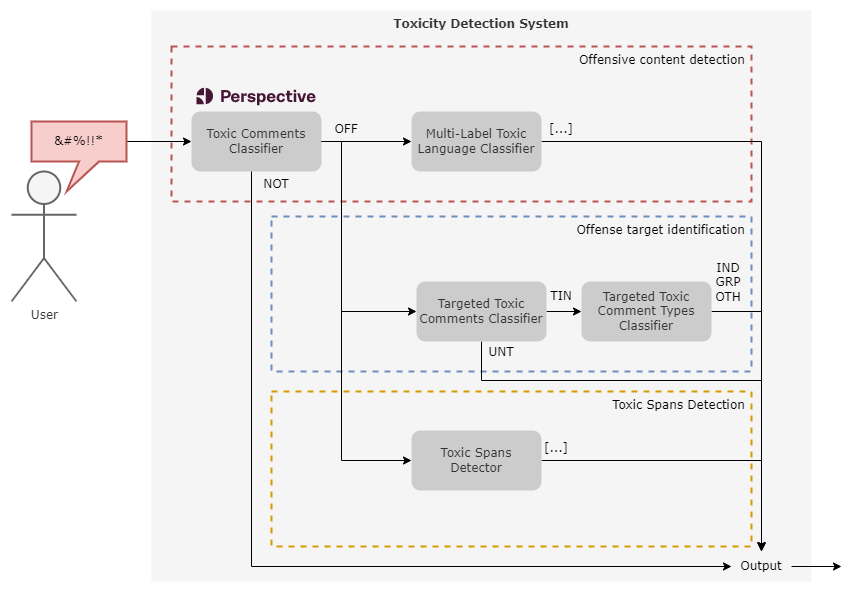
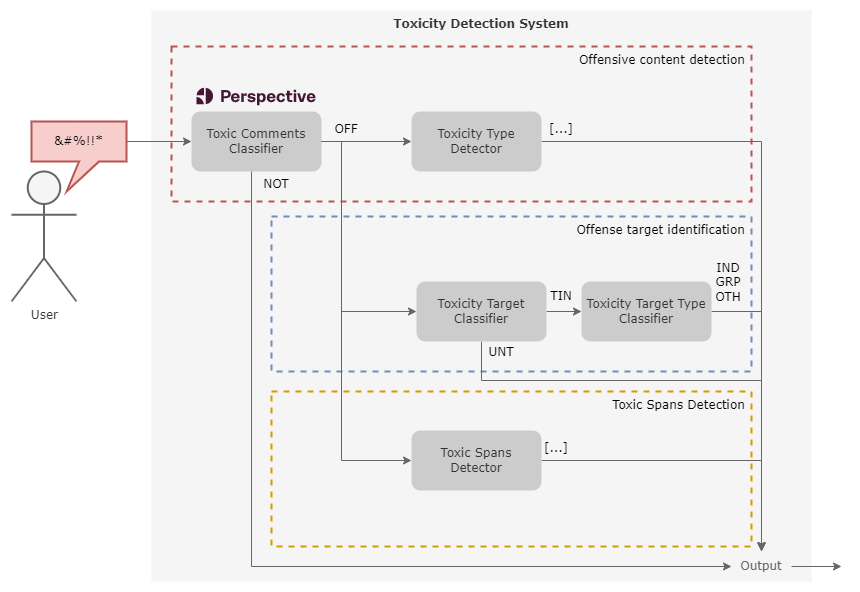
Update toxicity types

diff --git a/docs/dataset/data-sample.pt.md b/docs/dataset/data-sample.pt.md
@@ -2,7 +2,7 @@
 
 A tabela abaixo mostra um exemplo dos dados fornecidos pelo dataset.
 
-| id                               | text                                              | is\_offensive | is\_targeted | targeted\_type | toxic\_spans                                       | health | gender\_attack | ideology | insult | other\_lifestyle | physical\_aspects | profanity\_obscene | racism | religious\_intolerance | sexism | xenophobia |
+| id                               | text                                              | is\_offensive | is\_targeted | targeted\_type | toxic\_spans                                       | health | lgbtqphobia | ideology | insult | other\_lifestyle | physical\_aspects | profanity\_obscene | racism | religious\_intolerance | sexism | xenophobia |
 | -------------------------------- | ------------------------------------------------- | ------------- | ------------ | -------------- | -------------------------------------------------- | ------ | -------------- | -------- | ------ | ---------------- | ----------------- | ------------------ | ------ | ---------------------- | ------ | ---------- |
 | b1f25b94adda4724b587a9af556c0a3b | USER Canalha URL                                  | OFF           | TIN          | IND            | \[5, 6, 7, 8, 9, 10, 11, 12, 13\]                  | FALSE  | FALSE          | FALSE    | TRUE   | FALSE            | FALSE             | FALSE              | FALSE  | FALSE                  | FALSE  | FALSE      |
 | 5102cdbdbefd4e4eb4dac40726093d66 | USER VTNSC FDP                                    | OFF           | TIN          | IND            | \[5, 6, 7, 8, 9, 10, 11, 12, 13, 14\]              | FALSE  | FALSE          | FALSE    | TRUE   | FALSE            | FALSE             | TRUE               | FALSE  | FALSE                  | FALSE  | FALSE      |

diff --git a/docs/dataset/data-sample.en.md b/docs/dataset/data-sample.en.md
@@ -2,7 +2,7 @@
 
 The following table shows a sample of the dataset.
 
-| id                               | text                                              | is\_offensive | is\_targeted | targeted\_type | toxic\_spans                                       | health | gender\_attack | ideology | insult | other\_lifestyle | physical\_aspects | profanity\_obscene | racism | religious\_intolerance | sexism | xenophobia |
+| id                               | text                                              | is\_offensive | is\_targeted | targeted\_type | toxic\_spans                                       | health | lgbtqphobia | ideology | insult | other\_lifestyle | physical\_aspects | profanity\_obscene | racism | religious\_intolerance | sexism | xenophobia |
 | -------------------------------- | ------------------------------------------------- | ------------- | ------------ | -------------- | -------------------------------------------------- | ------ | -------------- | -------- | ------ | ---------------- | ----------------- | ------------------ | ------ | ---------------------- | ------ | ---------- |
 | b1f25b94adda4724b587a9af556c0a3b | USER Canalha URL                                  | OFF           | TIN          | IND            | \[5, 6, 7, 8, 9, 10, 11, 12, 13\]                  | FALSE  | FALSE          | FALSE    | TRUE   | FALSE            | FALSE             | FALSE              | FALSE  | FALSE                  | FALSE  | FALSE      |
 | 5102cdbdbefd4e4eb4dac40726093d66 | USER VTNSC FDP                                    | OFF           | TIN          | IND            | \[5, 6, 7, 8, 9, 10, 11, 12, 13, 14\]              | FALSE  | FALSE          | FALSE    | TRUE   | FALSE            | FALSE             | TRUE               | FALSE  | FALSE                  | FALSE  | FALSE      |

diff --git a/docs/dataset/data-pipeline.pt.md b/docs/dataset/data-pipeline.pt.md
@@ -24,7 +24,7 @@ Adicionalmente, vamos usar comentários de outros datasets, como:
 O seguinte diagrama mostra a arquitetura da [**pipeline de dados**]{A data pipeline é uma série de processos de processamento de dados.}.
 
 <figure>
-  <img src="../images/ingestion-pipeline.png"/>
+  <img src="../images/data-pipeline.png"/>
   <figcaption>Arquitetura - Fonte: Elaborada pelo autor.</figcaption>
 </figure>
 

diff --git a/docs/dataset/data-pipeline.en.md b/docs/dataset/data-pipeline.en.md
@@ -24,7 +24,7 @@ Additionally, we will use comments from others datasets, such as:
 The following diagram shows the architecture of the [**data pipeline**]{A data pipeline is a series of data processing steps.}.
 
 <figure>
-  <img src="../images/ingestion-pipeline.png"/>
+  <img src="../images/data-pipeline.png"/>
   <figcaption>Architecture - Image by author.</figcaption>
 </figure>
 

diff --git a/docs/dataset/annotation.en.md b/docs/dataset/annotation.en.md
@@ -73,7 +73,7 @@ Negative or hateful comments targeting someone because of their gender identity,
 
 It includes aphobia, biphobia, homophobia, lesbophobia, transphobia, and other sexuality-related phobias.
 
-> Cuidado para não confundir com [sexismo](#sexismo).
+> Be careful to don't confuse it with [sexism](#sexism).
 
 ##### Other-Lifestyle
 
